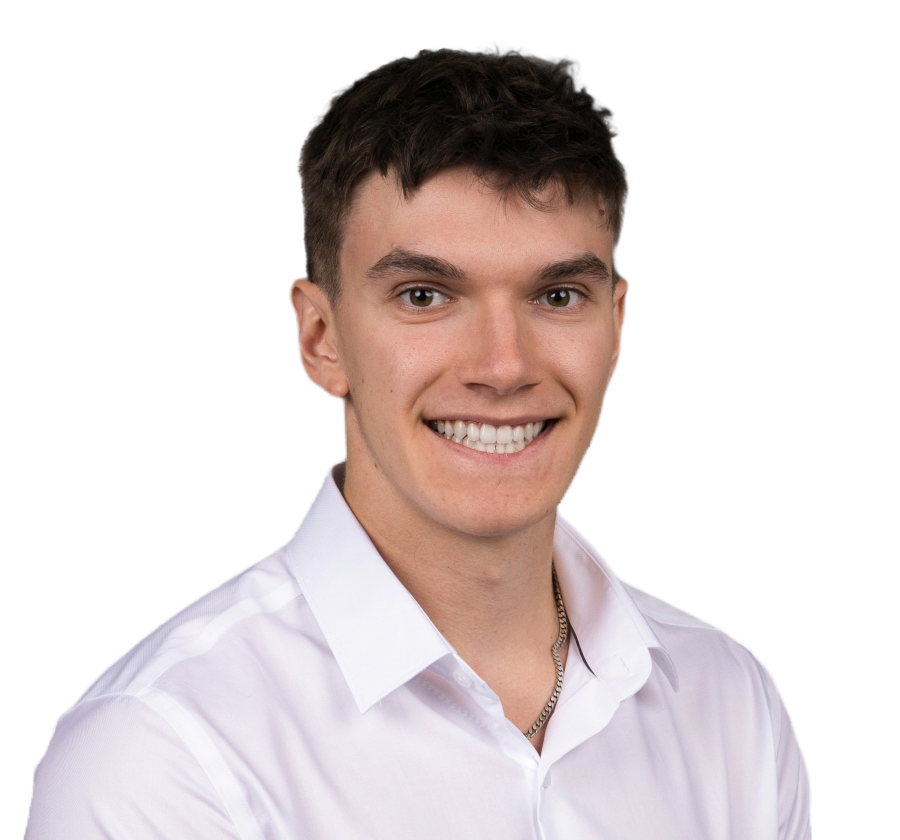
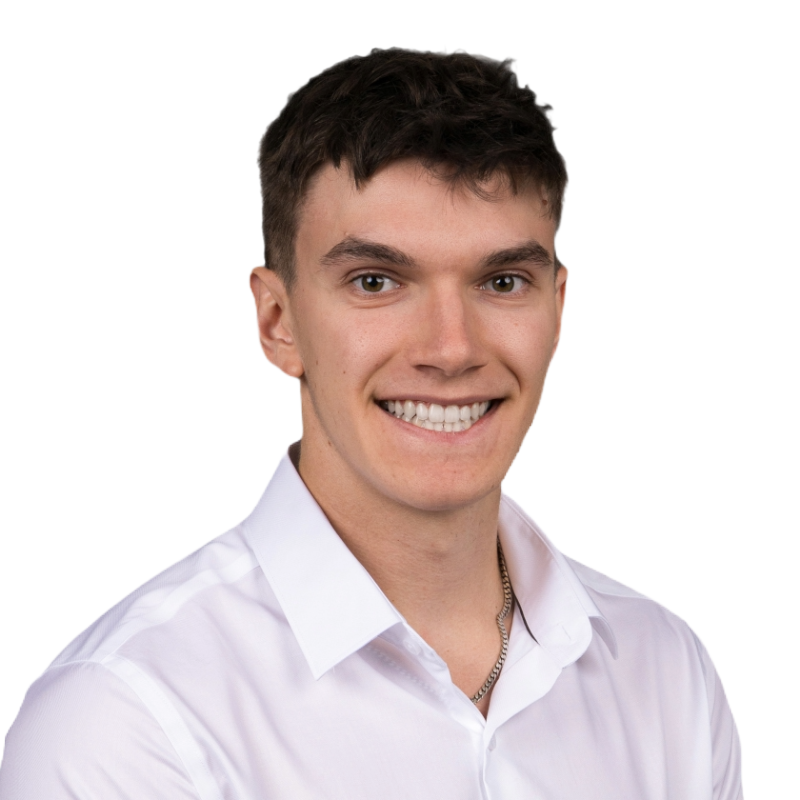
css for services and about us in progress

diff --git a/src/App.css b/src/App.css
@@ -8,6 +8,17 @@
     --design-blue: #19133e;
 
     --font-family: 'Onest';
+
+    --sections-padding: 50px;
+    --card-padding: 30px;
+
+    --border-end-of-section: solid 3px var(--design-orange);
+}
+
+h2 {
+    font-size: 40px;
+    color: var(--design-orange);
+    font-family: var(--font-family);
 }
 
 body{
@@ -23,7 +34,6 @@ body{
 }
 
 .header img {
-    width: 100%;
     max-width: 1137px;
     max-height: 141px;
 }
@@ -62,6 +72,8 @@ body{
     color: var(--design-cream);
     align-items: center;
     justify-content: space-between;
+    padding: var(--sections-padding);
+    height: clamp(400px, 40vw, 600px);
 }
 
 .top-section .project-button {
@@ -69,26 +81,75 @@ body{
     color: var(--design-cream);
 }
 
+.top-section-left-content {
+}
+
+.top-section img{
+    width: auto;
+    height: clamp(400px, 40vw, 600px);
+}
+
 /* End of TopSection CSS */
 
 /* Services and ServiceCard CSS*/
 .services-section{
-    padding: 50px;
+    padding: var(--sections-padding);
 }
 .service-cards {
     display: flex;
     justify-content: space-evenly;
     gap: 20px;
+    padding-bottom: 50px;
+    border-bottom: var(--border-end-of-section);
+    flex-wrap: wrap;
+    overflow: hidden;
 }
 
 .service-cards .service-card {
-
+    padding: var(--card-padding);
     background-color: #FFFCF5;
+    font-family: var(--font-family);
+    color: var(--design-blue);
+    box-shadow: 12px 12px 12px rgba(0, 0, 0, 0.1);
+    border-radius: 10px;
+    min-width: 200px;
+    max-width: 400px;
 }
 /* End of Services and ServiceCard CSS */
 
 /* AboutUs CSS */
+.about-us-section {
+    font-family: var(--font-family);
+    padding: var(--sections-padding);
+    color: var(--design-blue);
+    display: flex;
+}
 
+.about-us-section .about-us-left-content {}
+
+.about-us-section .team-cards {
+    display: flex;
+}
+
+.about-us-section .member-card h3{
+    margin: 0px;
+}
+
+.about-us-section .member-card img {
+    width: clamp(200px, 30vw, 400px);
+    height: auto;
+    border-top-left-radius: 150px;
+    border-bottom-right-radius: 150px;
+    margin-top: -150px;
+}
+
+.about-us-section .member-card .member-image-background {
+    width: clamp(200px, 30vw, 400px);
+    height: auto - 5px;
+    border-top-left-radius: 150px;
+    border-bottom-right-radius: 150px;
+    background-color: var(--design-blue);
+}
 /* End of AboutUs CSS */
 
 /* Footer CSS */

diff --git a/src/components/about-us.js b/src/components/about-us.js
@@ -1,18 +1,21 @@
 import React from "react";
 import jonathanPicture from '../images/jonathan.png';
 import etiennePicture from '../images/etienne.png';
+import MemberCard from "./member-card";
 
 const AboutUs = () => (
     <div className="about-us-section">
-        <h2>À propos</h2>
-        <p>
-            Nous savons que chaque projet numérique nécessite une approche sur-mesure. Grâce à une collaboration étroite avec nos clients, nous créons des solutions adaptées qui améliorent votre visibilité et garantissent une intégration fluide, tout en apportant une valeur ajoutée à votre activité.
+        <div className="about-us-left-content">
+            <h2>À propos</h2>
+            <p>
+                Nous savons que chaque projet numérique nécessite une approche sur-mesure. Grâce à une collaboration étroite avec nos clients, nous créons des solutions adaptées qui améliorent votre visibilité et garantissent une intégration fluide, tout en apportant une valeur ajoutée à votre activité.
 
-            Rejoignez Kozzo pour bénéficier de notre savoir-faire technique et transformer vos idées en réalité. Ensemble, propulsons votre entreprise vers le monde de demain.
-        </p>
-        <div className="team-pictures">
-            <img src={jonathanPicture} alt="jonathan"/>
-            <img src={etiennePicture} alt="etienne"/>
+                Rejoignez Kozzo pour bénéficier de notre savoir-faire technique et transformer vos idées en réalité. Ensemble, propulsons votre entreprise vers le monde de demain.
+            </p>
+            <div className="team-cards">
+                <MemberCard name='Étienne Arsenault' role='Co-Fondateur' picture={etiennePicture}/>
+                <MemberCard name='Jonathan Bessette' role='Co-Fondateur' picture={jonathanPicture}/>
+            </div>
         </div>
     </div>
 )

diff --git a/src/components/member-card.js b/src/components/member-card.js
@@ -1,0 +1,13 @@
+import React from "react";
+
+const MemberCard = (props) => (
+    <div className="member-card">
+        <div className="member-image-background">
+            <img src={props.picture} alt={`${props.name}`}/>
+        </div>
+        <h3>{props.name}</h3>
+        <h3>{props.role}</h3>
+    </div>
+)
+
+export default MemberCard
